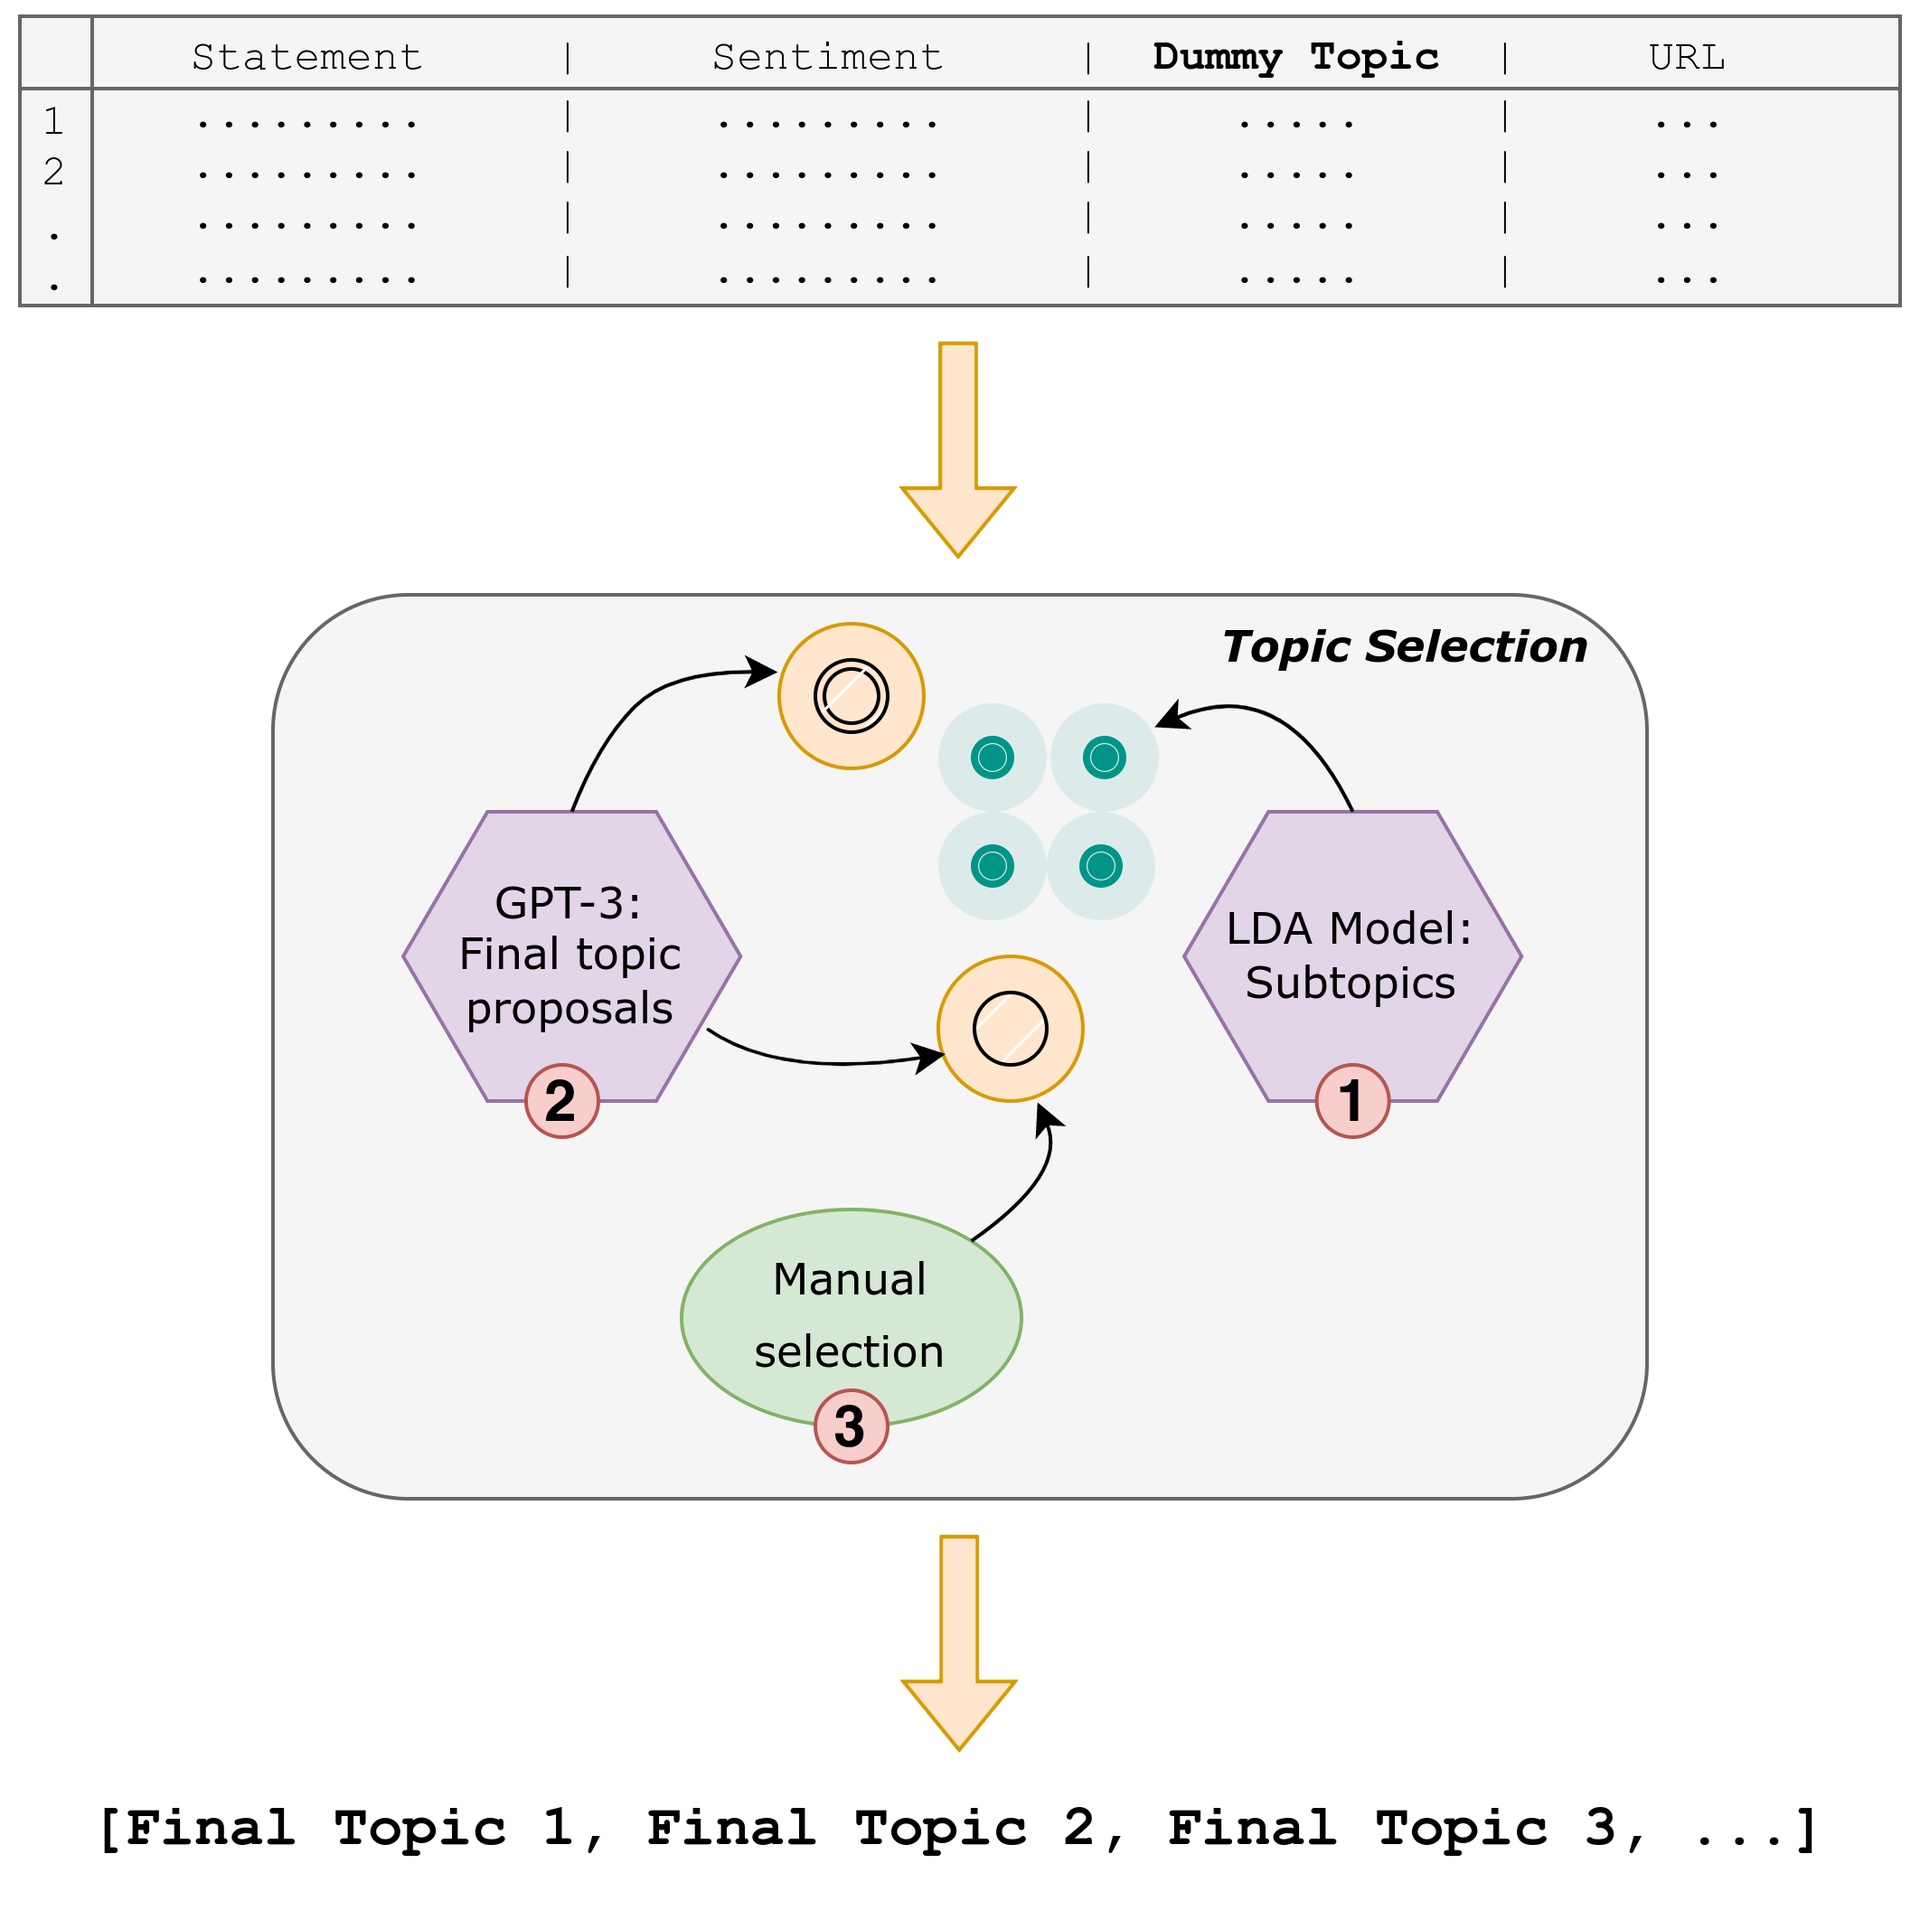
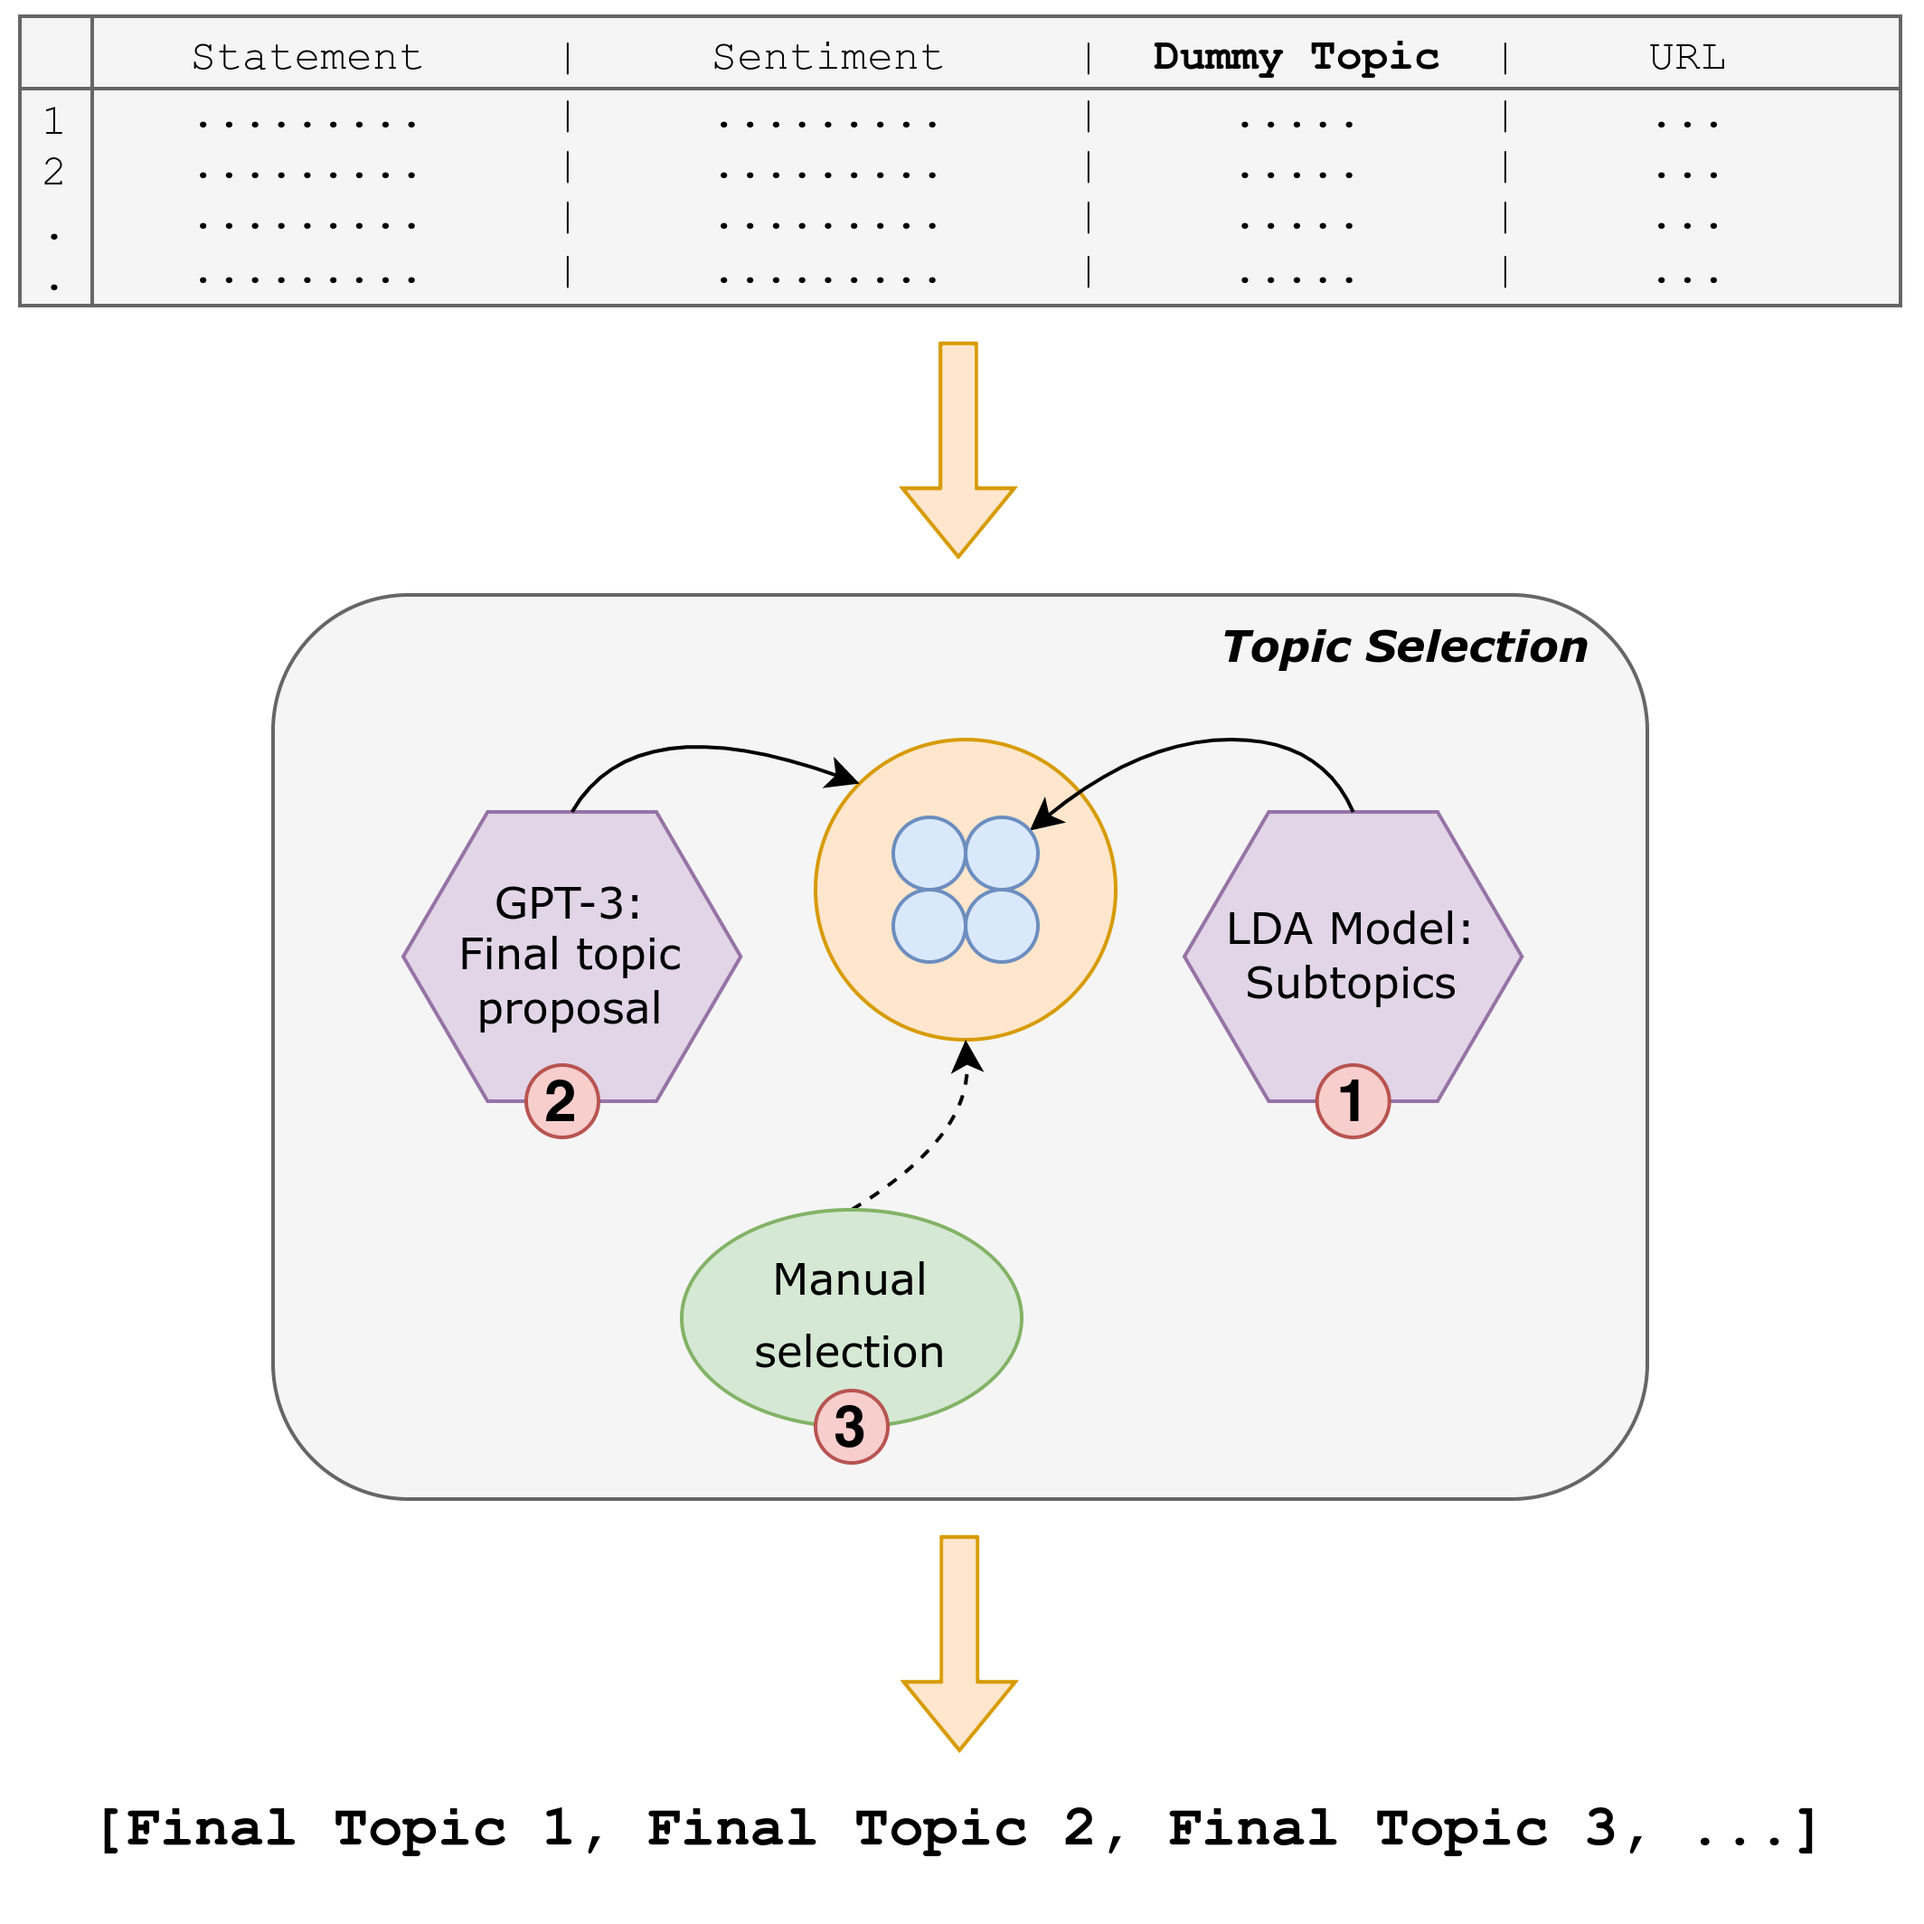
Include figures in Latex document

diff --git a/latex/paper/content/002-methodology.tex b/latex/paper/content/002-methodology.tex
@@ -9,42 +9,57 @@ For the realization of our concept, the following three objectives have to be ac
 \end{enumerate}%
 %
 %
+\begin{figure}[t]
+    \centering
+    \includegraphics[width=\linewidth]{overview}
+    \caption{
+        The statement extraction, filter and final topic assignment process.
+        AI statements are extracted from website HTMLs located inside WARC files (left part).
+        The extraction process involves the application of two regexes (statement regex and AI regex).
+        Statements then enter the model pipeline (left side), where they are further filtered through the future model and the sentiment model.
+        The model pipeline runs two times in total. The first time the topic model assigns dummy topics.
+        After the topic selection process (green circle), where we fine-tune the topic model, the model pipeline runs a second time.
+        Now the topic model assigns the final topics to the statements.
+        The output is a \texttt{.csv} file with the schema \texttt{statement|sentiment|topic|url}.
+    }
+    \label{fig:overview}
+\end{figure}
 \underline{1. WARC Data Extraction:}
 \\
-Initially, we outline the raw data acquiring containing AI expressions. 
-Since the web archive provided by the Webis group with the corresponding WARC-DL data extraction pipeline \citep{Deckers2022} is at our disposal, we utilize those. 
-The data set consists of long texts. 
-For that reason, the text must be splitted into separate sentences. 
-Then, sentences about AI can be extracted for later processing by applying Regex. 
+Initially, we outline the raw data acquiring containing AI expressions.
+Since the web archive provided by the Webis group with the corresponding WARC-DL data extraction pipeline \citep{Deckers2022} is at our disposal, we utilize those.
+The data set consists of long texts.
+For that reason, the text must be splitted into separate sentences.
+Then, sentences about AI can be extracted for later processing by applying Regex.
 \\
 \\
 %
 \underline{2. Data Transformation:}
 \\
-For later analysis, the data must be converted to required target schema, illustrated in Table~\ref{data-schema}. Therefore we employ the model pipeline, which generates the final data set with the attributes future statement, sentiment, topic and url. Within this model pipeline three models are applied sequentially: 
+For later analysis, the data must be converted to required target schema, illustrated in Table~\ref{data-schema}. Therefore we employ the model pipeline, which generates the final data set with the attributes future statement, sentiment, topic and url. Within this model pipeline three models are applied sequentially:
 \begin{itemize}
     \item Future statements model:\\
-    This model is able to distinguish between statements about the future and all other types of terms. 
+    This model is able to distinguish between statements about the future and all other types of terms.
 On the basis of its classifications, statements about the future are extracted.
     \item Sentiment model:\\
 A sentiment is assigned to every future statement by this model
     \item Topic model: \\
-    Before our selected topic model enables the assignment of reasonable topics, those must be provided as label candidates to this topic model.  
-Accordingly, the Model Pipeline runs twice. In the first execution the chosen model runs with dummy topics. Based on the output the topic selection is conducted. 
+    Before our selected topic model enables the assignment of reasonable topics, those must be provided as label candidates to this topic model.
+Accordingly, the Model Pipeline runs twice. In the first execution the chosen model runs with dummy topics. Based on the output the topic selection is conducted.
 For each subsequent run, the model pipeline is considered complete.
 \end{itemize}
 
-The URLs of the pages are also included in the data schema for a later discussion. This pipeline generates the final data set with the attributes future statement, sentiment, topic and URL. The resulting data set can then be used for analysis and interpretation. 
+The URLs of the pages are also included in the data schema for a later discussion. This pipeline generates the final data set with the attributes future statement, sentiment, topic and URL. The resulting data set can then be used for analysis and interpretation.
 \\
 \\
 \underline{3. Analysis:}
 \\
-For the analysis we start with a graphical visualization. 
-Therefore, we decided to group all statements according to their topics. 
-This way for every topic a sentiment analysis can be conducted separately. 
+For the analysis we start with a graphical visualization.
+Therefore, we decided to group all statements according to their topics.
+This way for every topic a sentiment analysis can be conducted separately.
 \\
 \\
-In the following sections, each step of the implementation is discussed in detail. 
+In the following sections, each step of the implementation is discussed in detail.
 
 
 \begin{table}
@@ -164,6 +179,18 @@ For this reason, we decided to keep only statements about the future if the sent
 
 \subsection{Topic Model}
 \label{topic-model}
+\begin{figure}[t]
+    \centering
+    \includegraphics[width=\linewidth]{topic_selection}
+    \caption{
+        The three steps of topic selection.
+        First, the LDA Model generates a set of subtopics for a topic cluster.
+        In this example, there are four subtopics (small blue circles).
+        Then, GPT-3 proposes a possible general topic for the subtopic set (large yellow circle).
+        Lastly, we either pick this final topic as proposed, or replace it with a more suitable one from the same category, e.g. \texttt{level} would become \texttt{gaming}.
+    }
+    \label{fig:topic_selection}
+\end{figure}
 For assigning topics to the future statements we employ the bart-large-mnli model from Facebook, which was pretrained on the MultiNli \citep{N18-1101} data set, which consists of 433000 pairs of sentences annotated with textual supplementary information. The bart-large-mnli is a natural language processing model based on the technique of \citet{yin2019benchmarking} utilizing pre-trained NLI models as ready-to-use zero-shot sequence classifiers.
 The approach involves specifying the sequence for classification as an NLI prerequisite and then constructing a hypothesis of every possible label candidate.
 Afterwards probabilities of agreement and contradictions are transformed into annotation probabilities.
@@ -177,14 +204,14 @@ Applied to NLP, a Latent Dirichlet Allocation model clusters observations into u
 \\
 \\
 We prepared our data set for LDA by removing punctuation, words with less than three letters and stopwords. The cleaned data was then converted into lowercase and fed into a tokenizer. From there on, we created bigrams (sets of two words) from the tokens and employed a Word2Vec model to select only the most occuring ones.
-Finally, bigrams that occurred in more than XX\% and less than XX of the documents were filtered out. The remaining bigrams were inputted into an LDA model, returning clusters of related topics. To label each cluster with a matching headline or cluster name, we used OpenAI’s GPT-3 (text-davinci-002) to turn suggestions of cluster names, from which we selected the best-fitting ones if possible. 
+Finally, bigrams that occurred in more than XX\% and less than XX of the documents were filtered out. The remaining bigrams were inputted into an LDA model, returning clusters of related topics. To label each cluster with a matching headline or cluster name, we used OpenAI’s GPT-3 (text-davinci-002) to turn suggestions of cluster names, from which we selected the best-fitting ones if possible.
 For some sets of words, the suggested titles could provide only inspiration and had to be adapted.
 \\
 In the following set, the most frequently occurring words for one of our statement clusters are provided:
 \\
 "autopilot, translation, machine, money, business, site, search, article, engine, traffic, page, list, marketing, internet, everything, income, link, cash, help, button"
 \\
-The headings generated by GPT3 for this set of keywords were 
+The headings generated by GPT3 for this set of keywords were
 \\
 \emph{Social Media Marketing}, \emph{Search Engine Optimization}, \emph{Internet marketing}.
 We found that these keywords are covering two topics.

diff --git a/latex/paper/paper.tex b/latex/paper/paper.tex
@@ -69,6 +69,10 @@ The document itself conforms to its own specifications, and is therefore an exam
 These instructions should be used both for papers submitted for review and for final versions of accepted papers.
 \end{abstract}
 
+\graphicspath{
+              {./figures/}
+             }
+
 \input{content/001-introduction}
 \input{content/002-methodology}
 \input{content/004-results}
